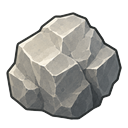
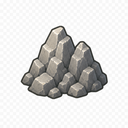
Use generated rock art

diff --git a/game/arkini/README.md b/game/arkini/README.md
@@ -105,9 +105,8 @@ Current first-wave asset IDs:
 
 Current PNG coverage status:
 
-- `item:tree`, `item:log`, `item:plank`, `item:stone`, `item:stone-block`, `producer:lumberjack-t1`, `producer:sawmill-t1`, `producer:quarry-t1`, and `producer:stonemason-t1` have usable PNG coverage.
-- `item:rock` currently uses a placeholder-copied PNG file so that every active definition has its own file path.
+- `item:tree`, `item:rock`, `item:log`, `item:plank`, `item:stone`, `item:stone-block`, `producer:lumberjack-t1`, `producer:sawmill-t1`, `producer:quarry-t1`, and `producer:stonemason-t1` all have usable dedicated PNG coverage.
 
-Generate dedicated art next for:
+Current first-wave art gaps:
 
-- `item:rock`
+- none